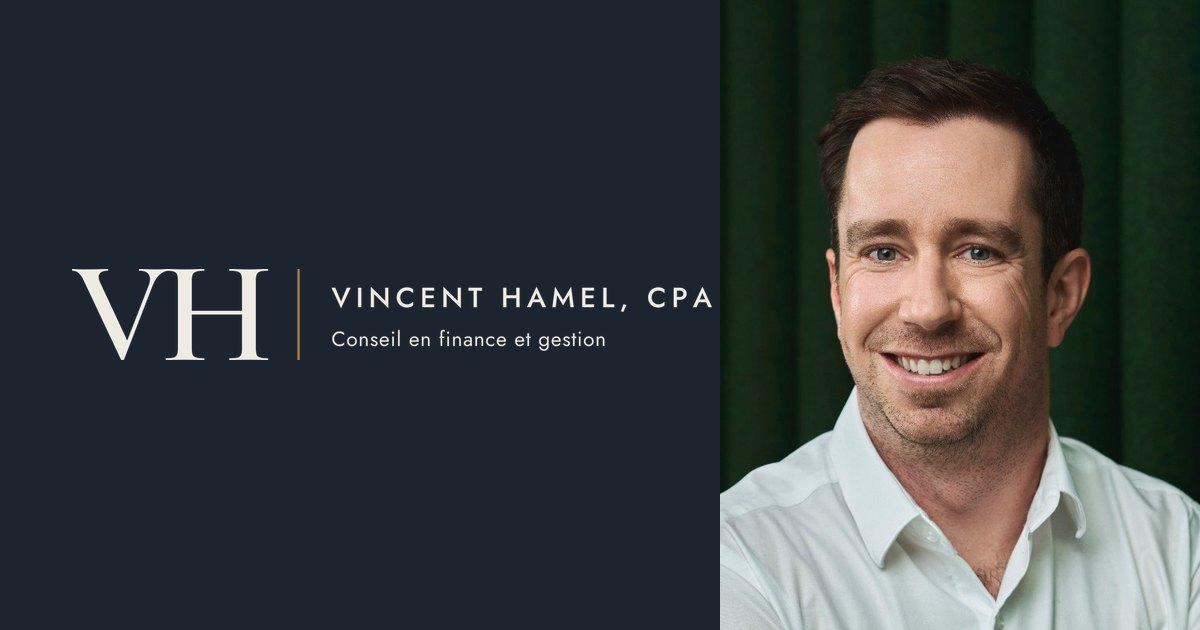
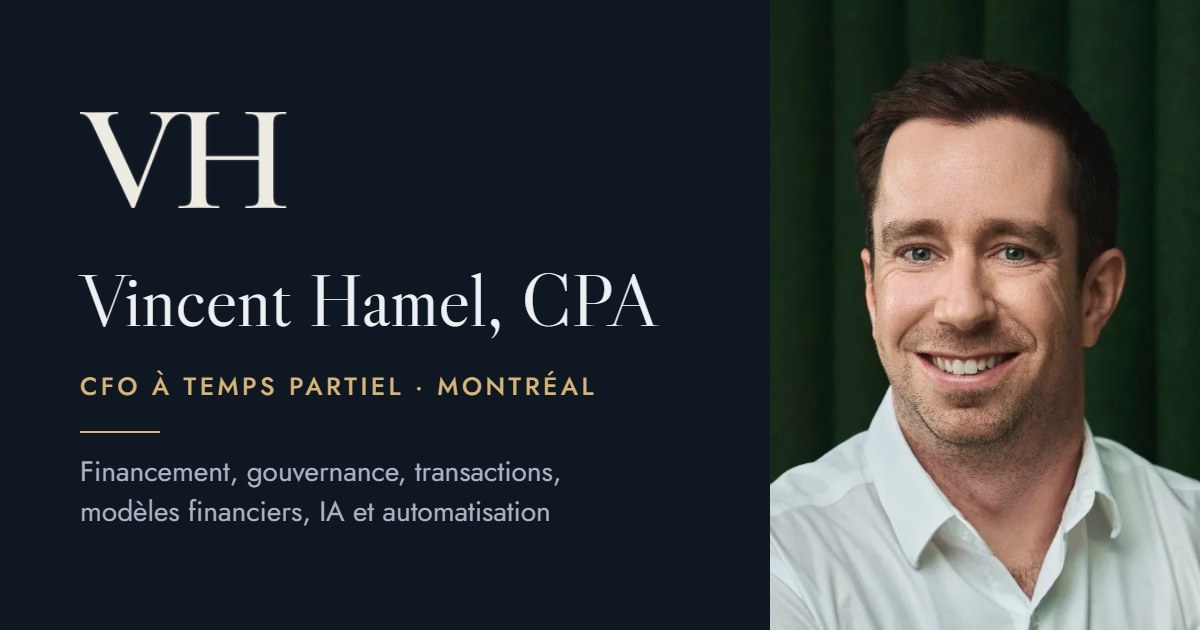
Image de partage FR et EN

diff --git a/en.html b/en.html
@@ -19,10 +19,10 @@
 <meta property="og:url" content="https://vincenthamel.com/en">
 <meta property="og:title" content="Fractional CFO in Montreal | Vincent Hamel, CPA">
 <meta property="og:description" content="Fractional CFO for growing companies: financing, governance, clear models, transactions, AI and automation.">
-<meta property="og:image" content="https://vincenthamel.com/og-image.jpg">
+<meta property="og:image" content="https://vincenthamel.com/og-image-en.jpg">
 <meta property="og:image:width" content="1200">
 <meta property="og:image:height" content="630">
-<meta property="og:image:alt" content="Vincent Hamel, CPA, finance and management advisory">
+<meta property="og:image:alt" content="Vincent Hamel, CPA, fractional CFO in Montreal">
 <meta name="twitter:card" content="summary_large_image">
 <link rel="icon" href="/favicon.png" type="image/png" sizes="48x48">
 <link rel="apple-touch-icon" href="/apple-touch-icon.jpg">

diff --git a/index.html b/index.html
@@ -22,7 +22,7 @@
 <meta property="og:image" content="https://vincenthamel.com/og-image.jpg">
 <meta property="og:image:width" content="1200">
 <meta property="og:image:height" content="630">
-<meta property="og:image:alt" content="Vincent Hamel, CPA, conseil en finance et gestion">
+<meta property="og:image:alt" content="Vincent Hamel, CPA, CFO à temps partiel à Montréal">
 <meta name="twitter:card" content="summary_large_image">
 <link rel="icon" href="/favicon.png" type="image/png" sizes="48x48">
 <link rel="apple-touch-icon" href="/apple-touch-icon.jpg">
